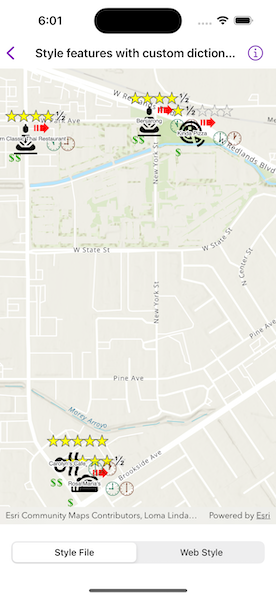
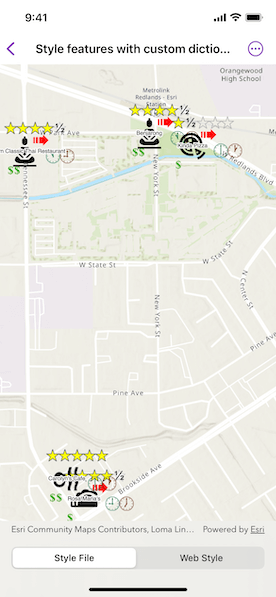
Move picker into segmented control.

diff --git a/Shared/Samples/Style features with custom dictionary/StyleFeaturesWithCustomDictionaryView.swift b/Shared/Samples/Style features with custom dictionary/StyleFeaturesWithCustomDictionaryView.swift
@@ -23,23 +23,23 @@ struct StyleFeaturesWithCustomDictionaryView: View {
     @State private var dictionaryStyleSelection: CustomDictionaryStyle = .file
     
     var body: some View {
-        VStack {
-            MapView(map: model.map)
-            
-            // The picker to toggle between style file and web style.
-            Picker("Dictionary Symbol Style", selection: $dictionaryStyleSelection) {
-                ForEach(CustomDictionaryStyle.allCases, id: \.self) { style in
-                    Text(style.label)
+        MapView(map: model.map)
+            .toolbar {
+                ToolbarItem(placement: .bottomBar) {
+                    // The picker to toggle between style file and web style.
+                    Picker("Dictionary Symbol Style", selection: $dictionaryStyleSelection) {
+                        ForEach(CustomDictionaryStyle.allCases, id: \.self) { style in
+                            Text(style.label)
+                        }
+                    }
+                    .pickerStyle(.segmented)
+                    .onChange(of: dictionaryStyleSelection) {
+                        // Update the feature layer with the correct dictionary renderer
+                        // on selection change.
+                        model.restaurantFeatureLayer.renderer = dictionaryStyleSelection == .web ? model.dictionaryRendererFromWebStyle : model.dictionaryRendererFromStyleFile
+                    }
                 }
             }
-            .pickerStyle(.segmented)
-            .padding()
-            .onChange(of: dictionaryStyleSelection) {
-                // Update the feature layer with the correct dictionary renderer
-                // on selection change.
-                model.restaurantFeatureLayer.renderer = dictionaryStyleSelection == .web ? model.dictionaryRendererFromWebStyle : model.dictionaryRendererFromStyleFile
-            }
-        }
     }
 }
 
